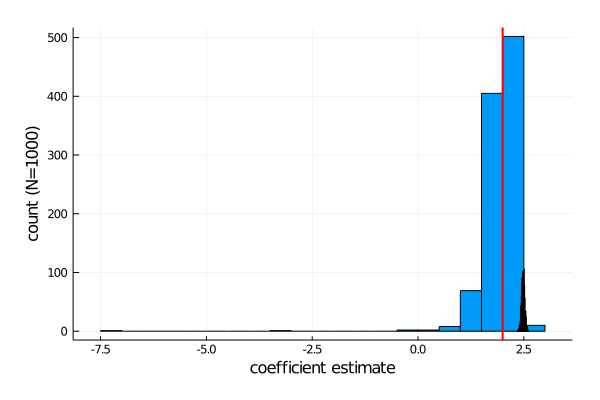
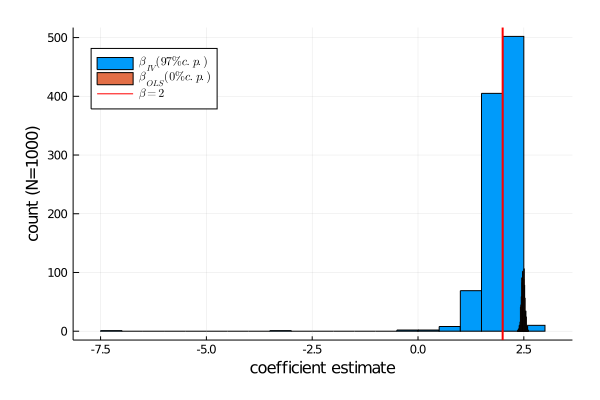
update Plots label command for  LaTeXStrings
I updated my packages and some syntax has changed

I also made some changes to the README.md file to be a bit more precise.

Changed region(s): [[0.15, 0.12, 0.39, 0.3]]

diff --git a/README.md b/README.md
@@ -4,11 +4,12 @@ This repository simulates bilateral trade data
 to estimate the effect of trade on output using the
 [Frankel and Romer (AER, 1999)](https://www.aeaweb.org/articles?id=10.1257/aer.89.3.379)
 predicted trade instrument.
+I owe a great deal of my knowledge on this issue to Jonathan Dingel.
 
 The equations estimated can be summarized in a two-stage least squares fashion,
 with an additional "zero stage" gravity regression in order to obtain predicted
 total log trade from predicted bilateral flows.
-The equation we would like to estimate is
+The equation we would like to estimate is the output equation that recovers
 the effect of trade `Ti` on output `Yi` according to
 ```
 Yi = α + β Ti + εi
@@ -33,10 +34,12 @@ according to the convolution formula
 η_ij = ρ εi + √(1-ρ²)μi
 ```
 where `μi` is an auxiliary standard Normal (0,1) random variable.
+Note in passing that this the standard bivariate normal transformation to obtain
+an error term with variance fixed to one `V(η_ij) = 1` (i.e. invariant to `ρ`)
+with correlation equal to rho `Corr(η_ij,εi) = ρ`.
 This is the "zero-th stage" gravity regression.
 It uses "distance elasticties" to compute the predicted bilateral trade
 driven by exogenous geographic factors.
-
 Predicted values of bilateral log trade are transformed to obtain total log trade
 according to
 ```
@@ -45,7 +48,7 @@ Tihat = LogSumExp(Z_ij * γ_hat)
 The first stage estimating equation is a regression of observed total trade on
 predicted total trade from the bilateral gravity equation
 ```
-Ti = π_0 + Tihat π_1 + ϵ
+Ti = π_0 + Tihat π_1 + ν
 ```
 This allows for unbiased estimation of
 the effect of total trade `Ti` on output `Yi`
@@ -54,4 +57,12 @@ The 2SLS estimator is
 ```
 β_2sls = inv(Ti'Pz*Ti) Ti'Pz*Y
 ```
-where using `Z = Tihat` we define `Pz = Z*inv(Z'Z)Z` is the projection matrix.
+where using `Z = Tihat` we define `Pz = Z*inv(Z'Z)Z` as the projection matrix.
+
+The F statistics used in evaluating the first stage are artificially inflated
+if we use conventional calculations, since it assumes that the number of instruments,
+`K` is equal to 1, the dimension of `Tihat`,
+rather than the number of "distance instruments" used in the
+gravity equation used to estimate the zero-th stage.
+Thus, I correct the F statistics
+by dividing by the true number of instruments used.
